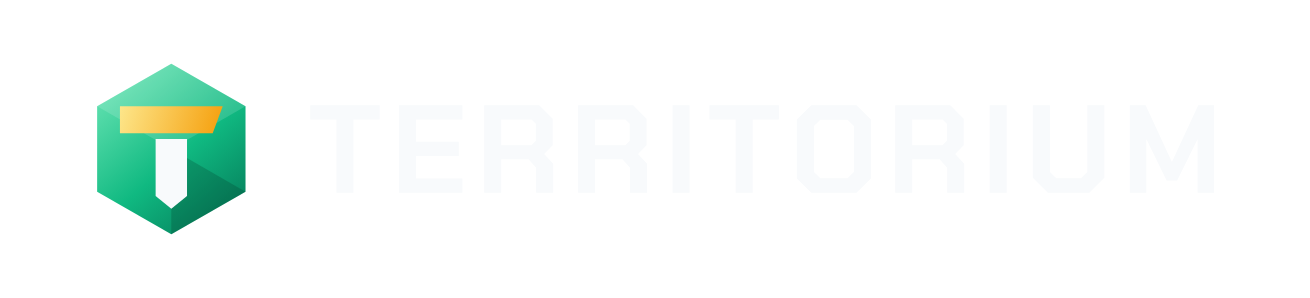
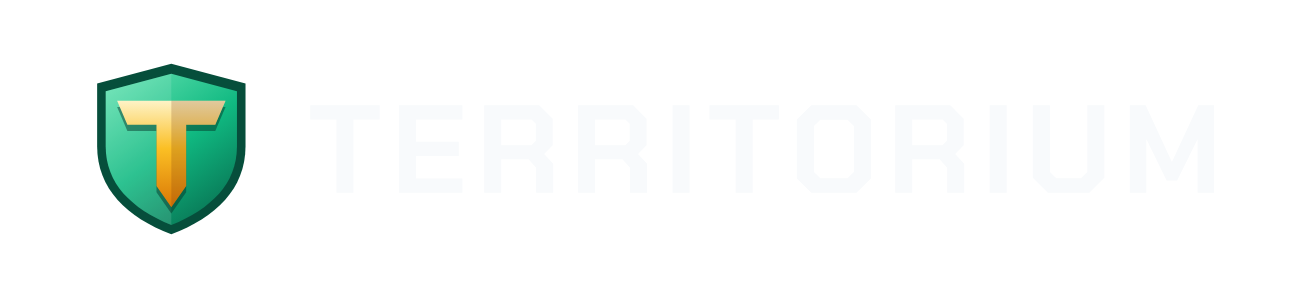
New shield emblem and Territorium news feed
- Replace the hex emblem with a heraldic shield holding a beveled gold
  T with a stake point; regenerate favicon, logos, brand bitmaps and
  PWA icons
- Swap the bundled news fallback's OpenFront Discord items for a
  Territorium welcome announcement

Changed region(s): [[0.0611, 0.2114, 0.2137, 0.7852]]

diff --git a/tests/client/components/NewsBox.test.ts b/tests/client/components/NewsBox.test.ts
@@ -117,9 +117,9 @@ describe("NewsBox", () => {
       expect(new Set(ids).size).toBe(ids.length);
     });
 
-    it("contains a tournament entry", () => {
+    it("contains an announcement entry", () => {
       const items = getVisibleNewsItems(allItems);
-      expect(items.some((i) => i.type === "tournament")).toBe(true);
+      expect(items.some((i) => i.type === "announcement")).toBe(true);
     });
   });
 });
